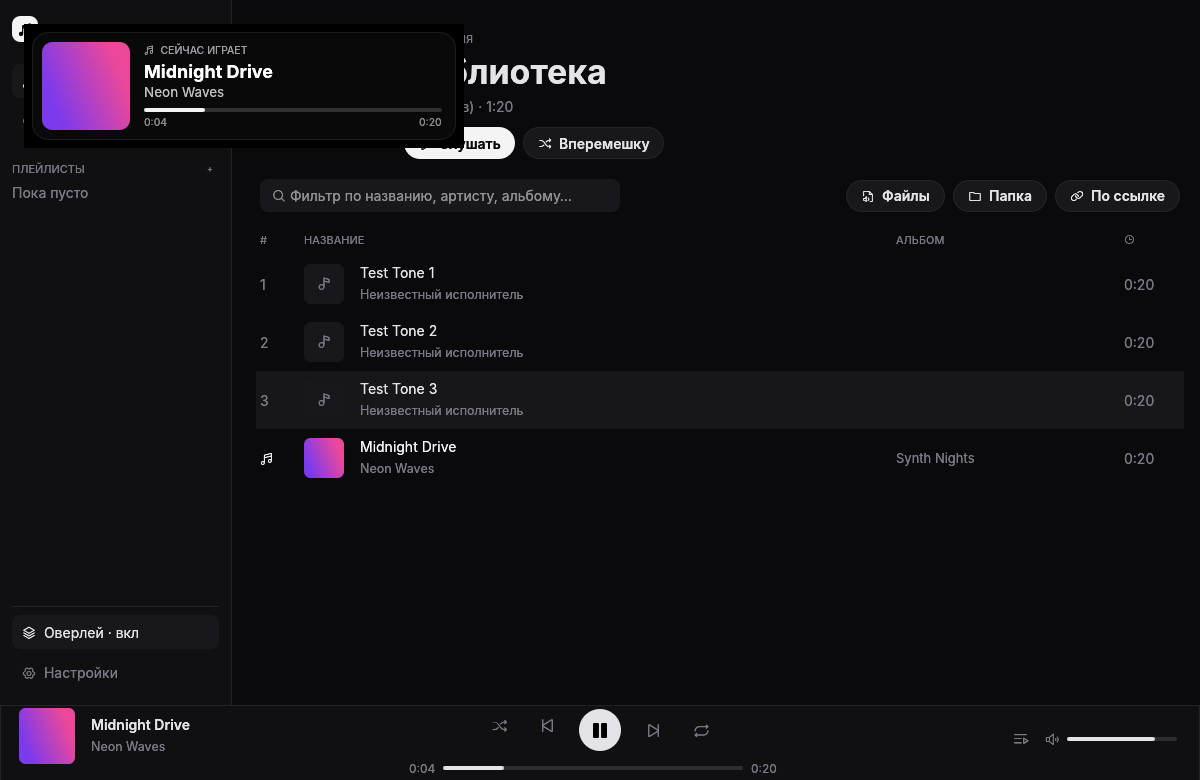
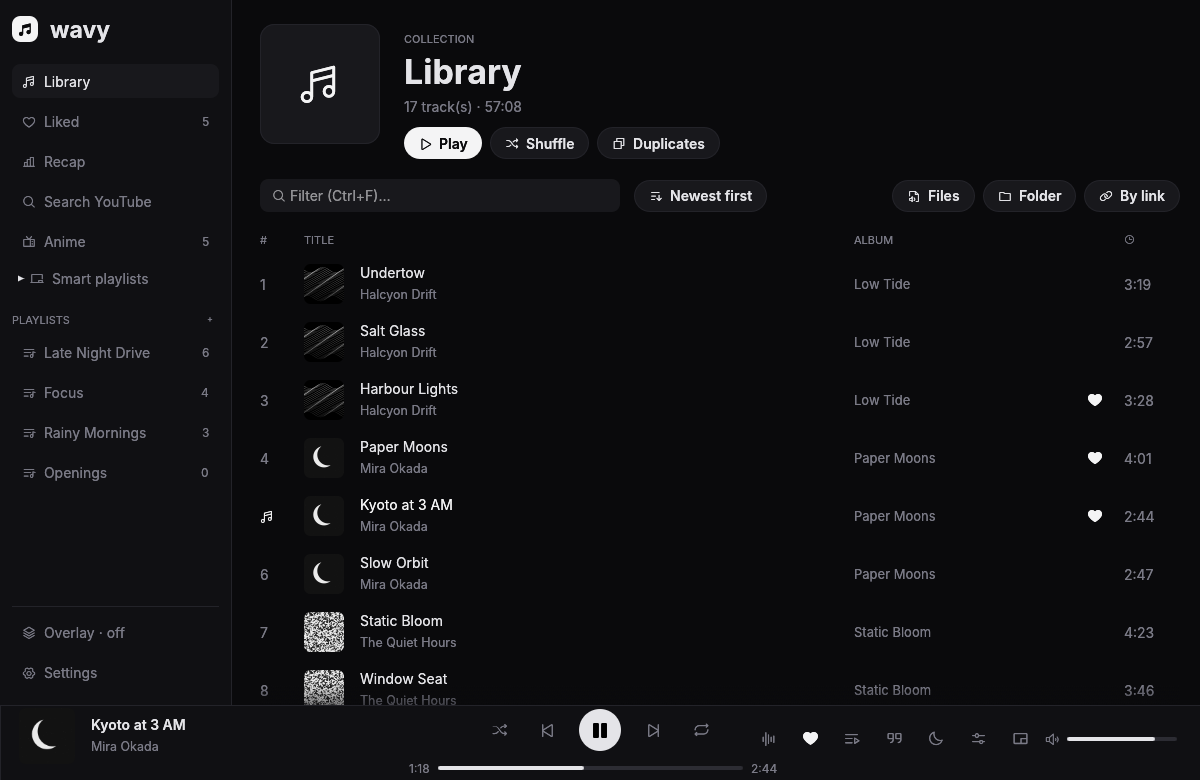
README на английском, новые скриншоты; оверлей OBS на языке приложения
- README переведён на английский, подписи кнопок сверены с английским интерфейсом.
- Скриншоты сняты заново с английским интерфейсом на вымышленной демо-библиотеке
  (монохромные обложки): библиотека, плейлист, аниме, страница тайтла, итоги,
  настройки и три темы оверлея.
- Оверлей для OBS всегда писал «Сейчас играет» / «Дальше» по-русски. Теперь сервер
  передаёт язык (поле lang), а ?lang=en|ru в ссылке его переопределяет.

Claude-Session: https://claude.ai/code/session_01NY3DCWqwPZ2FyGNDLQU1cY

diff --git a/overlay/overlay.js b/overlay/overlay.js
@@ -42,6 +42,8 @@
   }
 
   const flag = (k, cfg) => qs.has(k) ? qs.get(k) !== '0' : !!cfg;
+  // язык — как в Wavy (поле lang), можно задать в ссылке: ?lang=en
+  const tr = (ru, en) => ((qs.get('lang') || st?.lang) === 'en' ? en : ru);
   let lyricIdx = -1;
 
   // «Дальше»: до трёх треков, заказы из чата подписаны ником
@@ -51,7 +53,7 @@
     box.replaceChildren(...list.map((q, i) => {
       const row = document.createElement('div');
       row.className = 'q';
-      row.textContent = (i === 0 ? 'Дальше: ' : '') + (q.artist ? q.artist + ' — ' : '') + q.title + (q.by ? '  · от ' + q.by : '');
+      row.textContent = (i === 0 ? tr('Дальше: ', 'Next: ') : '') + (q.artist ? q.artist + ' — ' : '') + q.title + (q.by ? tr('  · от ', '  · from ') + q.by : '');
       return row;
     }));
     box.style.display = list.length ? 'block' : 'none';
@@ -66,7 +68,7 @@
     const t = data.track;
     if (!t) { ov.classList.add('hidden'); lastId = null; return; }
     ov.classList.toggle('paused', !data.playing);
-    $('label').textContent = data.playing ? 'Сейчас играет' : 'Пауза';
+    $('label').textContent = data.playing ? tr('Сейчас играет', 'Now playing') : tr('Пауза', 'Paused');
     if (t.id !== lastId) {
       $('title').textContent = t.title;
       $('artist').textContent = t.artist || '';

diff --git a/core/src/overlay.rs b/core/src/overlay.rs
@@ -92,7 +92,7 @@ impl OverlayServer {
             let cover = t.cover.as_ref().map(|c| if c.starts_with("http") { c.clone() } else { format!("/cover/{}?v={}", t.id, sh.at) });
             json!({ "id": t.id, "title": t.title, "artist": t.artist, "album": t.album, "cover": cover, "url": t.url, "type": t.kind })
         });
-        json!({ "track": track, "playing": sh.state.playing, "position": sh.state.position, "duration": sh.state.duration, "at": sh.at, "config": sh.config, "queue": sh.queue, "lyrics": sh.lyrics })
+        json!({ "track": track, "playing": sh.state.playing, "position": sh.state.position, "duration": sh.state.duration, "at": sh.at, "config": sh.config, "queue": sh.queue, "lyrics": sh.lyrics, "lang": if crate::i18n::en() { "en" } else { "ru" } })
     }
 
     pub fn update(&self, state: &PlayerState) {

diff --git a/README.md b/README.md
@@ -1,153 +1,164 @@
 # Wavy
 
-Лёгкий нативный музыкальный плеер на Rust (egui + rodio). Без браузерного движка: это один процесс, ~45 МБ своей памяти во время игры трека, exe около 13 МБ.
+A lightweight native music and anime player written in Rust (egui + rodio). No browser engine: it's a single process using about 45 MB of its own memory while a track plays, and the exe is around 13 MB.
 
 ![Wavy](screenshots/native.png)
 
-## Скачать
+| | |
+|---|---|
+| ![Playlist](screenshots/playlist.png) | ![Anime](screenshots/anime.png) |
+| ![Anime title](screenshots/anime-title.png) | ![Recap](screenshots/recap.png) |
 
-**[Wavy.exe — последняя сборка](https://github.com/feelin-comatose/wavy/releases/latest/download/Wavy.exe)** (Windows 10/11 x64, установка не нужна).
-Все сборки — во вкладке [Releases](https://github.com/feelin-comatose/wavy/releases). Exe собирается автоматически (GitHub Actions) при каждом обновлении кода.
+## Download
 
-## Возможности
+**[Wavy.exe — latest build](https://github.com/feelin-comatose/wavy/releases/latest/download/Wavy.exe)** (Windows 10/11 x64, no installation needed).
+All builds are on the [Releases](https://github.com/feelin-comatose/wavy/releases) page. The exe is built automatically (GitHub Actions) on every code update.
 
-- **Язык интерфейса — русский или английский** (English UI): переключается в самом верху настроек, сразу, без перезапуска (меню в трее — после перезапуска). На телефоне так же: Настройки → «Язык · Language».
-- **Локальная музыка**: файлы, папки и `.m3u` можно перетащить в окно или добавить кнопками. Теги и обложки читаются из файлов. Поддерживаются mp3, flac, wav, ogg, m4a/aac, alac.
-- **Spotify**: вставь ссылку на плейлист, альбом или трек. Список берётся из Spotify, каждый трек находится на YouTube (в 6 потоков, с подбором по длительности; название и исполнитель — из Spotify). Без настроек — до 100 треков из плейлиста; для больших плейлистов можно добавить ключ Spotify API (Client ID + Secret) в настройках.
-- **YouTube Music / YouTube / SoundCloud / Bandcamp**: импорт плейлиста, альбома или видео по ссылке (можно просто нажать `Ctrl+V` в окне), поиск по YouTube, синхронизация плейлиста с источником. Под капотом **yt-dlp**: если его нет в системе, он один раз скачивается сам. Трек скачивается в кэш (до ~1.5 ГБ), следующий подгружается заранее.
-  - Если видео удалили или оно стало 18+ (YouTube не отдаёт такие без входа), Wavy ищет этот же трек в другом видео (до трёх попыток) и запоминает замену. Чтобы играли и сами видео 18+, в настройках («YouTube 18+») можно указать куки: из Firefox (с входом в YouTube) или файл `cookies.txt`. Куки берутся только для таких видео. Chrome и Edge на Windows прячут куки, и достать их часто не выходит.
-- Плейлисты, очередь, shuffle, repeat (выкл / всё / один), «играть далее», контекстное меню.
-- **Видео**: клик по блоку с треком внизу открывает просмотр вместо списка, повторный клик закрывает его. Двойной клик или кнопка в углу — на весь экран (`Esc` — выйти).
-  - YouTube-треки: клип (H.264 до 720p) скачивается при первом открытии и идёт синхронно со звуком.
-  - Локальные видео: mp4/m4v/mov/mkv/webm добавляются в библиотеку как треки. H.264 показывает встроенный декодер. Для **H.265 (HEVC), 10-битного видео, VP9, AV1** и звука **Opus, AC3/E-AC3, DTS, TrueHD** Wavy один раз сам скачивает свой маленький ffmpeg (≈6 МБ, собирается в CI из `scripts/build-ffmpeg.sh`). Если видеокарта умеет формат (D3D11VA/DXVA2), декодирует она, иначе процессор. AV1 без поддержки видеокартой пока не показывается.
-  - Если у трека нет видео, показывается большая обложка. Декодер (OpenH264) встроен в exe, ничего не докачивается, а пока просмотр закрыт, видео не занимает память.
-- **Аниме**: отдельный раздел для серий с компьютера. Перетащи папку (или нажми «Папка»), и Wavy сам:
-  - поймёт из имён файлов (или папок) название и номер серии: `[SubsPlease] Sousou no Frieren - 01 (1080p).mkv`, `Title.S02E05.mkv`, `Тетрадь смерти/Серия 05.mkv` и т.п.;
-  - найдёт тайтл на **Шикимори** и возьмёт оттуда постер, русское название, год, тип и число серий. Если угадал не тот сезон, выбери нужный вручную («Другой тайтл»);
-  - запомнит, какие серии просмотрены и где ты остановился («Продолжить»), а следующая серия включится сама;
-  - покажет **субтитры**: встроенные в MKV (ASS/SSA/SRT) или внешние `.ass`/`.srt` рядом с серией или в подпапке (`Subs/`, `RUS Sub/`…). Оформление ASS упрощается до белого текста с обводкой, надписи `\an8` идут сверху;
-  - даст выбрать **озвучку** (звуковую дорожку) и субтитры прямо поверх видео. Выбор запоминается для всего тайтла.
-- **Экспорт в MP3**: кнопка «Скачать MP3» у плейлиста сохраняет его целиком в одну папку (`01. Исполнитель - Название.mp3`…), а пункт «Сохранить как MP3…» в меню трека сохраняет выделенные песни. В файлы записываются название, исполнитель, альбом и обложка (ID3v2.3). Песни с YouTube берутся из кэша или скачиваются, кодирует тот же маленький ffmpeg (в него встроен LAME). MP3-файлы копируются без перекодирования.
-- **Shazam**: кнопка «Что за песня?» над видео (или волна в плеере) узнаёт, что сейчас играет, например опенинг или эндинг, и добавляет трек в библиотеку и плейлист «Опенинги» (сам трек находится на YouTube). Работает с любыми файлами на компьютере. Распознавание тем же способом, что в SongRec: из 12 секунд звука строится отпечаток и уходит на сервер Shazam.
-- **Лайки и «Любимое»**: сердечко у трека и в плеере (`L`). Треки в плейлистах, «Любимом» и очереди переставляются мышкой.
-- **Сортировка**: как в плейлисте, «Часто слушаю», новые/старые, по названию, исполнителю, альбому. Своя картинка на обложку плейлиста, папки для плейлистов.
-- **Звук**: скорость (slowed / nightcore), эквалайзер на 10 полос с пресетами, выравнивание громкости, кроссфейд 1–12 с, таймер сна.
-- **Тексты песен** (`T`): синхронные из LRCLIB, текущая строка подсвечивается, клик по строке перематывает.
-- **Итоги**: прослушивания, минуты, топ треков и артистов за месяц, год или всё время. Плюс поиск дублей и правка названия, исполнителя, альбома и обложки трека.
-- **Радио по треку**: похожие песни из микса YouTube встают в очередь.
-- **Мини-плеер** поверх всех окон и **иконка в трее** (Windows). Крестик по желанию сворачивает в трей.
-- **Аниме, дополнительно**: кнопка «Пропустить опенинг» (время из AniSkip), по желанию пропуск сам; на эндинге «Следующая серия через 10 с»; просмотренные серии отмечаются в списке на Шикимори (нужно своё OAuth-приложение, инструкция в настройках). Кнопка «Опенинги и эндинги» собирает все OP/ED тайтла в плейлист (список с AnimeThemes или MyAnimeList, песни с YouTube). Скриншот кадра — кнопка «Кадр» или `P` (в «Изображения/Wavy»). Субтитры можно открыть из любого файла (`.ass`, `.srt`, `.vtt`).
-- **Для стрима**:
-  - чат Twitch: `!sr ссылка или название` — заказ, `!skip` — голосование за пропуск (модер и стример пропускают сразу), `!song` — что играет, `!queue` — что дальше. Заказ можно привязать к награде за баллы канала (награда «с текстом»). Чат читается анонимно; чтобы Wavy отвечал в чат, нужен вход по коду twitch.tv/activate (своё приложение на dev.twitch.tv, тип Public, инструкция в настройках);
-  - оверлей показывает, что дальше в очереди (с ником заказавшего), и строку текста песни в такт (`?queue=1&lyrics=1`);
-  - **пульт с телефона**: пауза, треки, перемотка, громкость и очередь по Wi-Fi (Android → Настройки → «Пульт ПК»);
-  - стили оверлея «компакт», «вертикальный», «только текст»; текущий трек в файл `now_playing.txt` для OBS.
-- **Глобальные горячие клавиши** (работают и в игре): пауза, треки, громкость, лайк, пропуск опенинга, мини-плеер, оверлей. По умолчанию `Ctrl+Alt+P/←/→/↑/↓/L/S/M`, переназначаются в настройках.
-- **Аккаунт YouTube Music** (Настройки → «Аккаунт YouTube Music»): кнопка «Войти через Google» открывает отдельное окно Chrome, Edge или Brave с чистым профилем; входишь как обычно, Wavy сам забирает куки и закрывает окно (пароль Wavy не видит). Можно и по кукам из Firefox или файла `cookies.txt`. После входа:
-  - **«Моя волна»** в боковой панели: бесконечное радио YouTube Music по твоим лайкам и истории, без того, что уже есть в библиотеке; очередь докручивается сама;
-  - **импорт лайков** (плейлист «Лайки YouTube Music») и **сохранённых плейлистов**, повторный импорт обновляет их.
-  Wavy — неофициальный клиент: риск блокировки аккаунта маленький, но не нулевой, надёжнее второй аккаунт.
-- **Умные плейлисты**: топ недели и месяца, «На повторе», «Забытое любимое» (лайки, которые не играли месяц), «Свежее», «Ни разу не слушал». Собираются сами; любой можно сохранить копией.
-- **Last.fm**: скробблинг и «сейчас слушает» (свой ключ API Last.fm, вход через страницу Last.fm).
-- **Итоги картинкой**: PNG 1080×1350 для соцсетей с часами музыки, топом треков и артистов.
-- **Резервные копии**: раз в день библиотека сохраняется в папку (14 последних копий), папку можно выбрать — на другом диске или в облаке. Восстановление — из настроек.
-- **Ctrl+K — команды**: вбиваешь «эквалайзер», «мини», название трека, плейлиста или аниме и жмёшь Enter.
-- **Кэш**: видно, сколько занимает; можно очистить или задать лимит.
-- **Что нового**: после автообновления показывается список изменений.
-- **Автообновление**: при запуске и раз в 6 часов плеер проверяет GitHub Releases, сам скачивает новую версию и предлагает перезапуститься. Выключается в Настройки → Обновления.
-- **Медиаклавиши** и системная плашка плеера: в Windows она появляется рядом с громкостью и показывает обложку; на Linux работает через MPRIS.
-- **Продолжение с того же места**: после перезапуска открывается тот же трек, та же очередь и та же позиция.
-- **Discord Rich Presence**: показывает «Слушает …», трек, исполнителя, обложку, полосу прогресса и кнопку «Открыть в YouTube Music».
-- **Оверлей**:
-  - окно поверх игр: `Ctrl+Shift+O` показать или скрыть, `Ctrl+Shift+L` закрепить (клики проходят насквозь) или двигать и менять размер. Работает в играх в режиме «оконный без рамки»;
-  - для OBS: Browser Source `http://127.0.0.1:3737/overlay`, размер 500×160;
-  - темы: **карточка**, **минимал** (только текст с тенью), **винил** (крутящаяся пластинка). Тема выбирается в настройках и действует и в окне, и в OBS. Для OBS её можно переопределить: `?theme=card|minimal|vinyl`.
+## Features
 
-![Оверлей «винил»](screenshots/overlay-vinyl.png)
+- **Russian or English interface**: switch it at the very top of Settings; it applies instantly, without a restart (the tray menu updates after a restart). The phone app has the same setting: Settings → "Язык · Language".
+- **Local music**: drag files, folders and `.m3u` playlists into the window or add them with the buttons. Tags and covers are read from the files. Supports mp3, flac, wav, ogg, m4a/aac, alac.
+- **Spotify**: paste a link to a playlist, album or track. The list comes from Spotify and each track is found on YouTube (6 at a time, matched by duration; title and artist are taken from Spotify). Without any setup you get up to 100 tracks per playlist; for bigger playlists add a Spotify API key (Client ID + Secret) in Settings.
+- **YouTube Music / YouTube / SoundCloud / Bandcamp**: import a playlist, album or video by link (or just press `Ctrl+V` in the window), search YouTube, keep a playlist in sync with its source. Under the hood it's **yt-dlp**: if it isn't installed, Wavy downloads it once by itself. Tracks are downloaded into a cache (up to ~1.5 GB) and the next one is fetched in advance.
+  - If a video is deleted or becomes 18+ (YouTube won't serve those without signing in), Wavy looks for the same track in another video (up to three attempts) and remembers the replacement. To play 18+ videos themselves, set cookies in Settings ("YouTube 18+"): from Firefox (signed in to YouTube) or a `cookies.txt` file. Cookies are used only for those videos. Chrome and Edge on Windows hide their cookies, so getting them often fails.
+- Playlists, queue, shuffle, repeat (off / all / one), "play next", context menu.
+- **Video**: click the track block at the bottom to show the video instead of the list; click again to close it. Double-click or the corner button for full screen (`Esc` to exit).
+  - YouTube tracks: the music video (H.264 up to 720p) downloads the first time you open it and plays in sync with the audio.
+  - Local videos: mp4/m4v/mov/mkv/webm are added to the library as tracks. H.264 is shown by the built-in decoder. For **H.265 (HEVC), 10-bit video, VP9, AV1** and **Opus, AC3/E-AC3, DTS, TrueHD** audio, Wavy downloads its own small ffmpeg once (≈6 MB, built in CI from `scripts/build-ffmpeg.sh`). If the graphics card supports the format (D3D11VA/DXVA2), it decodes; otherwise the CPU does. AV1 without GPU support isn't shown yet.
+  - Tracks without video show a large cover. The decoder (OpenH264) is built into the exe, nothing is downloaded, and while the view is closed the video takes no memory.
+- **Anime**: a separate section for episodes on your computer. Drop a folder in (or press "Folder") and Wavy will:
+  - work out the title and episode number from file (or folder) names: `[SubsPlease] Sousou no Frieren - 01 (1080p).mkv`, `Title.S02E05.mkv`, `Death Note/Episode 05.mkv` and so on;
+  - find the title on **Shikimori** and take the poster, Russian title, year, type and episode count from there. If it picked the wrong season, choose the right one by hand ("Another title");
+  - remember which episodes you've watched and where you stopped ("Continue"), and start the next episode on its own;
+  - show **subtitles**: embedded in MKV (ASS/SSA/SRT) or external `.ass`/`.srt` next to the episode or in a subfolder (`Subs/`, `RUS Sub/`…). ASS styling is simplified to white text with an outline; `\an8` lines go at the top;
+  - let you pick the **dub** (audio track) and subtitles right over the video. The choice is remembered for the whole title.
+- **Export to MP3**: the "Download MP3" button on a playlist saves all of it to one folder (`01. Artist - Title.mp3`…), and "Save as MP3…" in the track menu saves the selected songs. Title, artist, album and cover are written into the files (ID3v2.3). YouTube songs come from the cache or are downloaded, and the same small ffmpeg (with LAME built in) encodes them. MP3 files are copied without re-encoding.
+- **Shazam**: the "What's this song?" button above the video (or the wave in the player) recognises what's playing right now, an opening or ending for example, and adds the track to the library and the "Openings" playlist (the track itself is found on YouTube). Works with any file on your computer. Recognition works the same way as SongRec: a fingerprint is built from 12 seconds of audio and sent to the Shazam server.
+- **Likes and "Liked"**: the heart on a track and in the player (`L`). Tracks in playlists, "Liked" and the queue can be reordered with the mouse.
+- **Sorting**: playlist order, "Most played", newest/oldest, by title, artist, album. Your own picture as a playlist cover, folders for playlists.
+- **Sound**: speed (slowed / nightcore), 10-band equalizer with presets, volume normalisation, crossfade 1–12 s, sleep timer.
+- **Lyrics** (`T`): synced lyrics from LRCLIB; the current line is highlighted and clicking a line seeks to it.
+- **Recap**: plays, minutes, top tracks and artists for the month, year or all time. Plus a duplicate finder and editing of a track's title, artist, album and cover.
+- **Track radio**: similar songs from a YouTube mix are added to the queue.
+- **Mini player** on top of all windows and a **tray icon** (Windows). The close button can minimise to the tray if you want.
+- **Anime extras**: a "Skip opening" button (timings from AniSkip), optionally skipping automatically; "Next episode in 10 s" during the ending; watched episodes are marked in your Shikimori list (needs your own OAuth app; instructions are in Settings). The "Openings and endings" button collects every OP/ED of a title into a playlist (list from AnimeThemes or MyAnimeList, songs from YouTube). Frame screenshot: the "Frame" button or `P` (saved to "Pictures/Wavy"). Subtitles can be loaded from any file (`.ass`, `.srt`, `.vtt`).
+- **For streamers**:
+  - Twitch chat: `!sr link or title` to request a song, `!skip` to vote to skip (mods and the streamer skip instantly), `!song` for what's playing, `!queue` for what's next. Requests can be tied to a channel points reward (a reward "with text"). Chat is read anonymously; for Wavy to reply in chat, sign in with a code at twitch.tv/activate (your own app on dev.twitch.tv, Public type; instructions are in Settings);
+  - the overlay shows what's next in the queue (with the requester's name) and the current lyrics line in time (`?queue=1&lyrics=1`);
+  - **phone remote**: pause, tracks, seeking, volume and the queue over Wi-Fi (Android → Settings → "PC remote");
+  - overlay styles "compact", "vertical", "text only"; the current track goes to a `now_playing.txt` file for OBS.
+- **Global hotkeys** (they work in games too): pause, tracks, volume, like, skip opening, mini player, overlay. Defaults are `Ctrl+Alt+P/←/→/↑/↓/L/S/M`, and they can be reassigned in Settings.
+- **YouTube Music account** (Settings → "YouTube Music account"): "Sign in with Google" opens a separate Chrome, Edge or Brave window with a clean profile; you sign in as usual, and Wavy takes the cookies and closes the window (Wavy never sees your password). Cookies from Firefox or a `cookies.txt` file also work. Once signed in you get:
+  - **"My wave"** in the sidebar: endless YouTube Music radio based on your likes and history, without what's already in your library; the queue keeps filling itself;
+  - **import of likes** (the "YouTube Music likes" playlist) and **saved playlists**; importing again updates them.
+  Wavy is an unofficial client: the risk of an account ban is small but not zero, so a secondary account is safer.
+- **Smart playlists**: top of the week and month, "On repeat", "Forgotten favorites" (likes you haven't played for a month), "Fresh", "Never played". They build themselves; any of them can be saved as a copy.
+- **Last.fm**: scrobbling and "now playing" (your own Last.fm API key, sign-in through the Last.fm page).
+- **Recap image**: a 1080×1350 PNG for social media with hours of music and your top tracks and artists.
+- **Backups**: once a day the library is saved to a folder (the last 14 copies are kept); you can choose the folder, e.g. on another drive or in the cloud. Restore from Settings.
+- **Ctrl+K command palette**: type "equalizer", "mini", or the name of a track, playlist or anime and press Enter.
+- **Cache**: see how much space it takes, clear it or set a limit.
+- **What's new**: the list of changes is shown after an auto-update.
+- **Auto-update**: on launch and every 6 hours the player checks GitHub Releases, downloads the new version by itself and offers to restart. Turn it off in Settings → Updates.
+- **Media keys** and the system media panel: on Windows it appears next to the volume flyout and shows the cover; on Linux it works through MPRIS.
+- **Picks up where you left off**: after a restart you get the same track, the same queue and the same position.
+- **Discord Rich Presence**: shows "Listening to …", the track, artist, cover, a progress bar and an "Open in YouTube Music" button.
+- **Overlay**:
+  - a window on top of games: `Ctrl+Shift+O` to show or hide, `Ctrl+Shift+L` to lock it (clicks pass through) or to move and resize it. Works in games running in "borderless windowed" mode;
+  - for OBS: Browser Source `http://127.0.0.1:3737/overlay`, size 500×160;
+  - themes: **card**, **minimal** (just text with a shadow), **vinyl** (a spinning record). The theme is chosen in Settings and applies both to the window and to OBS. For OBS it can be overridden: `?theme=card|minimal|vinyl`. The overlay follows the app's language; `?lang=en` or `?lang=ru` overrides it.
+
+![Overlay themes: card, minimal, vinyl](screenshots/overlay.png)
+
+![Settings](screenshots/settings.png)
 
 ## Android
 
-Нативное приложение (Kotlin, Jetpack Compose, Media3) в папке `android/`. Скачать: `Wavy.apk` в [Releases](https://github.com/feelin-comatose/wavy/releases/latest).
+A native app (Kotlin, Jetpack Compose, Media3) in the `android/` folder. Download `Wavy.apk` from [Releases](https://github.com/feelin-comatose/wavy/releases/latest).
 
-- **Фоновое воспроизведение**: уведомление с кнопками, экран блокировки, наушники, часы.
-- **Музыка и видео с телефона**: кнопка «С телефона» находит всё в памяти.
-- **YouTube Music / YouTube / Spotify / SoundCloud**: поиск, импорт по ссылке или через «Поделиться» прямо из их приложений, клипы синхронно со звуком. Под капотом NewPipeExtractor.
-- **Плавающий мини-плеер** поверх игр и приложений, когда Wavy свёрнут. Включается в настройках, нужно разрешение «Поверх других приложений».
-- **Синхронизация с ПК**: по Wi-Fi (адрес и PIN из настроек Wavy на ПК) или файлом `wavy-export.json` в обе стороны. На ПК файл можно просто перетащить в окно.
-- **Аниме**: серии из памяти телефона собираются в тайтлы, постеры и названия берутся с Шикимори, просмотренное отмечается само.
-- **Shazam**: слушает микрофон 12 секунд, найденный трек добавляется в «Опенинги».
-- **Лайки и «Любимое»**: сердечко в плеере и меню трека; лайки переносятся между ПК и телефоном вместе с плейлистами.
-- **Тексты песен** (LRCLIB): текущая строка подсвечена, тап по строке — перемотка.
-- **Таймер сна** (15–90 минут или «после этого трека») и **радио по треку**.
-- **Умные плейлисты**: топ недели и месяца, «На повторе», «Забытое любимое», «Свежее», «Ни разу не слушал».
-- **Spotify**: треки ищутся в YouTube Music; ненайденные можно выбрать вручную, а неудачно найденный трек — заменить («Выбрать другое видео…» в меню).
-- **Пульт ПК**: управлять Wavy на компьютере по Wi-Fi.
-- **Без интернета**: кнопка «Скачать» в плейлисте сохраняет треки YouTube на телефон.
-- **Автообновление**: при запуске проверяет Releases и предлагает поставить новую версию.
+- **Background playback**: notification with buttons, lock screen, headphones, watches.
+- **Music and video on the phone**: the "From phone" button finds everything in storage.
+- **YouTube Music / YouTube / Spotify / SoundCloud**: search, import by link or through "Share" straight from their apps, music videos in sync with the audio. Under the hood it's NewPipeExtractor.
+- **Floating mini player** on top of games and apps while Wavy is minimised. Turn it on in Settings; it needs the "Display over other apps" permission.
+- **Sync with the PC**: over Wi-Fi (address and PIN from Wavy's settings on the PC) or with a `wavy-export.json` file, both ways. On the PC you can just drop the file into the window.
+- **Anime**: episodes on the phone are grouped into titles, posters and names come from Shikimori, and watched episodes are marked automatically.
+- **Shazam**: listens through the microphone for 12 seconds; the track it finds is added to "Openings".
+- **Likes and "Liked"**: the heart in the player and in the track menu; likes move between PC and phone together with playlists.
+- **Lyrics** (LRCLIB): the current line is highlighted; tap a line to seek.
+- **Sleep timer** (15–90 minutes or "after this track") and **track radio**.
+- **Smart playlists**: top of the week and month, "On repeat", "Forgotten favorites", "Fresh", "Never played".
+- **Spotify**: tracks are searched for in YouTube Music; the ones not found can be picked by hand, and a badly matched track can be replaced ("Pick another video…" in the menu).
+- **PC remote**: control Wavy on the computer over Wi-Fi.
+- **Offline**: the "Download" button in a playlist saves YouTube tracks to the phone.
+- **Auto-update**: checks Releases on launch and offers to install the new version.
 
-Discord Rich Presence и оверлей для OBS есть только на ПК: Discord не даёт такого API на телефонах.
+Discord Rich Presence and the OBS overlay are PC-only: Discord doesn't offer that API on phones.
 
-Сборка: `cd android && ./gradlew assembleRelease`. APK подписывается ключом `android/release.p12`. Его создаёт CI при первой сборке и шифрует паролем из секрета `WAVY_KEYSTORE_PASSWORD`, который владелец репозитория придумывает сам.
+Build: `cd android && ./gradlew assembleRelease`. The APK is signed with `android/release.p12`. CI creates it on the first build and encrypts it with the password from the `WAVY_KEYSTORE_PASSWORD` secret, which the repository owner makes up.
 
-## Горячие клавиши
+## Hotkeys
 
 | | |
 |---|---|
-| `Space` | играть / пауза |
-| `←` `→` | перемотка ±5 с |
-| `Ctrl+←` `Ctrl+→` | предыдущий / следующий трек |
-| `↑` `↓` | громкость |
-| `M` | без звука |
-| `L` | лайк текущему треку |
-| `Q` / `T` | очередь / текст песни |
-| `S` / `R` | перемешать / повтор |
-| `Ctrl+F` | поиск по списку |
-| `Ctrl+K` | команды: трек, плейлист, настройка |
-| `P` | скриншот кадра (в видео) |
-| `Ctrl+Alt+P` `Ctrl+Alt+←/→` `Ctrl+Alt+↑/↓` | пауза, треки, громкость — глобально, и в игре |
-| `Ctrl+Alt+L` `Ctrl+Alt+S` `Ctrl+Alt+M` | лайк, пропуск опенинга, мини-плеер — глобально |
-| `Ctrl+V` | вставить ссылку и импортировать |
-| `Ctrl+Shift+O` | оверлей поверх игр (глобально) |
-| `Ctrl+Shift+L` | закрепить / двигать оверлей (глобально) |
-| медиаклавиши | играть, пауза, вперёд, назад |
+| `Space` | play / pause |
+| `←` `→` | seek ±5 s |
+| `Ctrl+←` `Ctrl+→` | previous / next track |
+| `↑` `↓` | volume |
+| `M` | mute |
+| `L` | like the current track |
+| `Q` / `T` | queue / lyrics |
+| `S` / `R` | shuffle / repeat |
+| `Ctrl+F` | search the list |
+| `Ctrl+K` | commands: track, playlist, setting |
+| `P` | frame screenshot (in video) |
+| `Ctrl+Alt+P` `Ctrl+Alt+←/→` `Ctrl+Alt+↑/↓` | pause, tracks, volume — global, in games too |
+| `Ctrl+Alt+L` `Ctrl+Alt+S` `Ctrl+Alt+M` | like, skip opening, mini player — global |
+| `Ctrl+V` | paste a link and import it |
+| `Ctrl+Shift+O` | overlay on top of games (global) |
+| `Ctrl+Shift+L` | lock / move the overlay (global) |
+| media keys | play, pause, next, previous |
 
-## Сборка (Windows)
+## Building (Windows)
 
-1. Поставь Rust: https://rustup.rs (вариант по умолчанию, вместе с Visual Studio Build Tools).
-2. В папке проекта:
+1. Install Rust: https://rustup.rs (the default option, together with Visual Studio Build Tools).
+2. In the project folder:
    ```bash
    cargo build --release -p wavy-native
    ```
-3. Готовый файл с иконкой: `target\release\wavy-native.exe`. Его можно переименовать в `Wavy.exe` и положить куда угодно: установка не нужна.
+3. The finished file, with its icon: `target\release\wavy-native.exe`. You can rename it to `Wavy.exe` and put it anywhere: no installation needed.
 
-Linux: нужны `libasound2-dev`, `libxkbcommon-x11-0`.
+Linux needs `libasound2-dev` and `libxkbcommon-x11-0`.
 
 ## Discord
 
-1. https://discord.com/developers/applications → **New Application**. Название станет текстом «Слушает **<название>**».
-2. Скопируй **Application ID** и вставь его в Настройки → Discord, поставь галочку.
-3. Необязательно: в Rich Presence → Art Assets загрузи картинку с ключом `logo`. Она показывается у локальных треков (у YouTube-треков подставляется превью).
+1. https://discord.com/developers/applications → **New Application**. Its name becomes the text "Listening to **<name>**".
+2. Copy the **Application ID**, paste it into Settings → Discord and tick the checkbox.
+3. Optional: under Rich Presence → Art Assets, upload an image with the key `logo`. It's shown for local tracks (YouTube tracks use their thumbnail).
 
-Discord должен быть запущен как десктоп-приложение.
+Discord has to be running as the desktop app.
 
-## Где лежат данные
+## Where data lives
 
-`%APPDATA%\wavy` (Windows) или `~/.local/share/wavy` (Linux):
-- `library.json`: библиотека, плейлисты, настройки;
-- `session.json`: очередь и позиция;
-- `covers/`, `cache/`: обложки и скачанные YouTube-треки;
+`%APPDATA%\wavy` (Windows) or `~/.local/share/wavy` (Linux):
+- `library.json`: library, playlists, settings;
+- `session.json`: queue and position;
+- `covers/`, `cache/`: covers and downloaded YouTube tracks;
 - `bin/`: yt-dlp.
 
-## Структура
+## Layout
 
 ```
-core/      библиотека (JSON), импорт и теги (lofty), yt-dlp, Discord RPC, HTTP/SSE-сервер оверлея для OBS
-native/    интерфейс (egui), аудио (rodio), медиаклавиши (souvlaki), кэш обложек
-overlay/   страница оверлея для OBS
+core/      library (JSON), import and tags (lofty), yt-dlp, Discord RPC, HTTP/SSE overlay server for OBS
+native/    interface (egui), audio (rodio), media keys (souvlaki), cover cache
+overlay/   the OBS overlay page
+android/   the Android app
+testdata/  test cases shared by the PC and Android implementations
 ```
 
-Шрифты: Inter (OFL), иконки: Phosphor (MIT). Подробности в `native/assets/README.md`.
+Fonts: Inter (OFL), icons: Phosphor (MIT). Details in `native/assets/README.md`.
 
-## Лицензия
+The screenshots use a made-up demo library (artists, covers and anime titles are fictional).
 
-GPL-3.0 (см. `LICENSE`): обе версии используют библиотеки под GPL-3.0 — rustypipe (ПК) и NewPipeExtractor (Android).
+## License
+
+GPL-3.0 (see `LICENSE`): both versions use GPL-3.0 libraries — rustypipe (PC) and NewPipeExtractor (Android).
